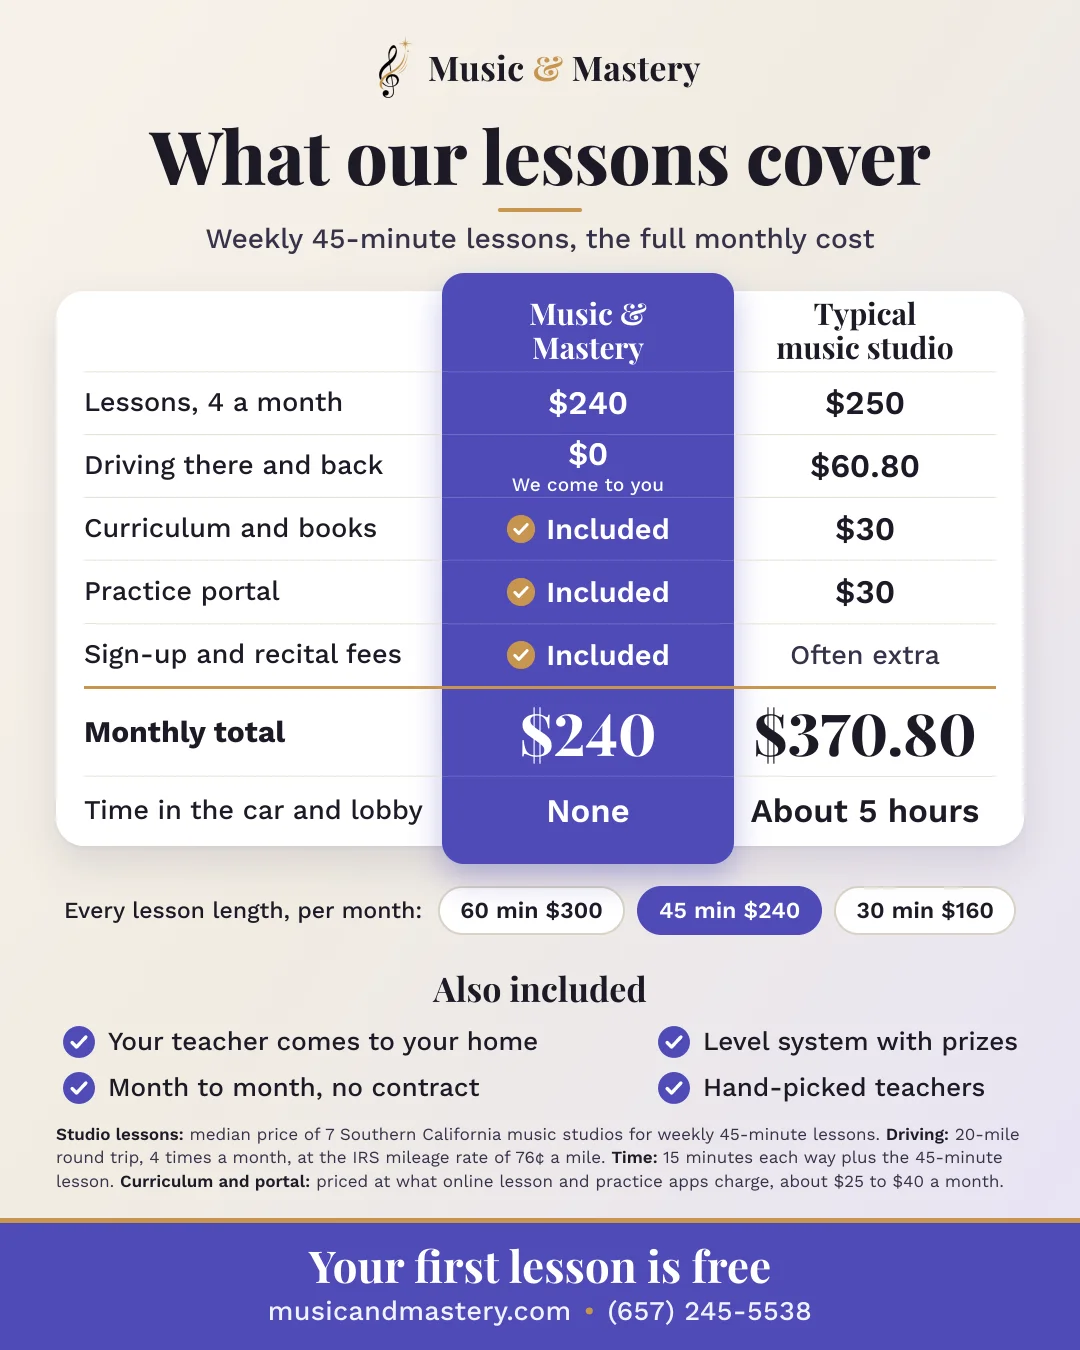
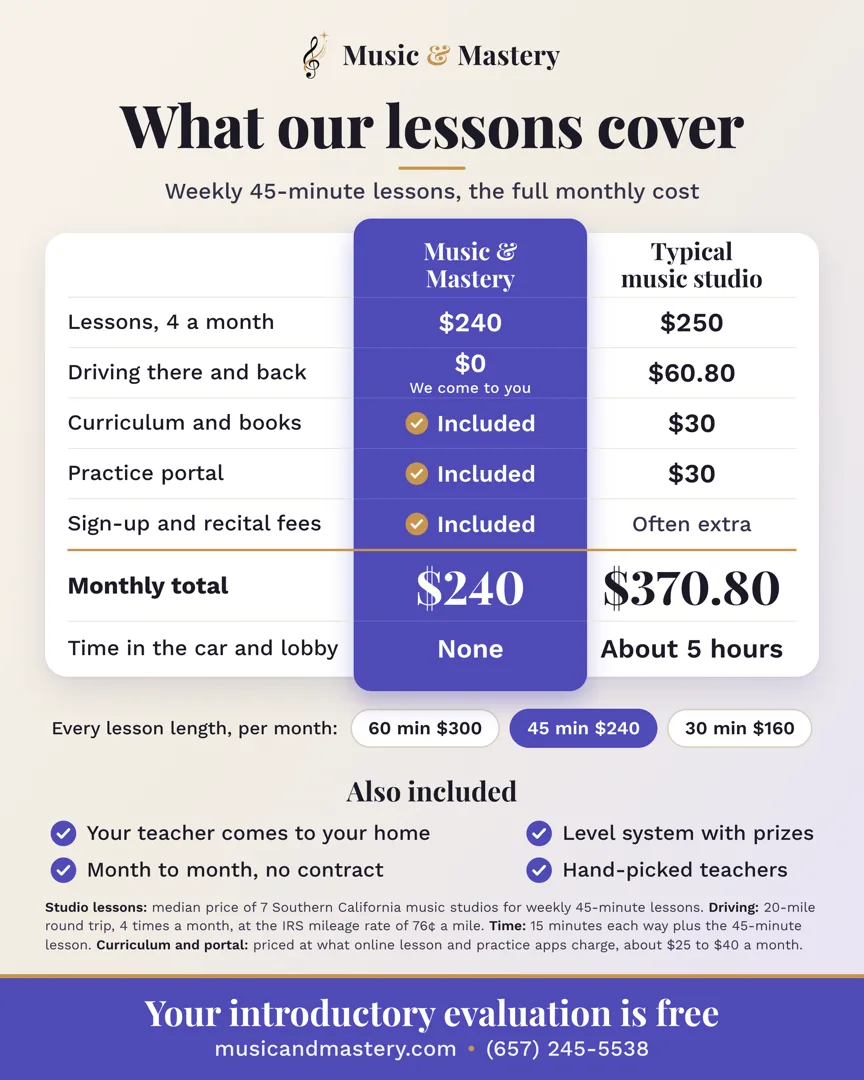
Pricing page: graphic bar says the introductory evaluation is free (page-only copy, 657 on both); drop the duplicate line (Jonny 2026-11-24)

diff --git a/pricing.html b/pricing.html
@@ -90,8 +90,7 @@
     .price-inner { max-width: 540px; margin: 0 auto; }
     .price-pic { display: block; }
     .price-pic img { display: block; width: 100%; height: auto; border-radius: 16px; box-shadow: 0 24px 60px rgba(114,110,221,0.24), 0 6px 18px rgba(0,0,0,0.10); }
-    .price-free { font-size: 20px; line-height: 1.5; color: #3a3a4a; margin: 28px 0 8px; font-weight: 700; }
-    .price-call { font-size: 18px; line-height: 1.5; color: #3a3a4a; margin: 0 0 18px; }
+    .price-call { font-size: 18px; line-height: 1.5; color: #3a3a4a; margin: 28px 0 18px; }
     .price-call a { color: var(--dark-purple); font-weight: 700; text-decoration: underline; text-underline-offset: 3px; }
     .price-actions { display: flex; gap: 12px; justify-content: center; }
     .price-actions .btn { padding: 10px 28px; font-size: 14px; }
@@ -99,7 +98,6 @@
       .nav-inner { padding: 0 20px; }
       .nav-logo img { height: 40px; }
       .price-section { padding: 20px 16px 40px; }
-      .price-free { font-size: 18px; margin-top: 22px; }
       .price-call { font-size: 16px; }
       footer { padding: 32px 20px; }
     }
@@ -123,9 +121,8 @@
     <h1 class="sr-only">What our lessons cover</h1>
     <picture class="price-pic">
       <source type="image/webp" srcset="brand_assets/pricing/price-comparison-1080.webp 1080w, brand_assets/pricing/price-comparison-2160.webp 2160w" sizes="(max-width: 600px) calc(100vw - 32px), 540px">
-      <img src="brand_assets/pricing/price-comparison-1080.jpg" width="1080" height="1350" alt="Music and Mastery costs $240 a month for weekly 45-minute lessons, with driving, curriculum and books, the practice portal, and sign-up and recital fees all included. A typical music studio comes to $370.80 a month: $250 for lessons, $60.80 driving, $30 curriculum and books, $30 practice portal, and sign-up and recital fees that are often extra. Studio families also spend about 5 hours in the car and lobby; with Music and Mastery it is none. 60-minute lessons are $300 a month, 45-minute $240 and 30-minute $160." decoding="async" fetchpriority="high">
+      <img src="brand_assets/pricing/price-comparison-1080.jpg" width="1080" height="1350" alt="Music and Mastery costs $240 a month for weekly 45-minute lessons, with driving, curriculum and books, the practice portal, and sign-up and recital fees all included. A typical music studio comes to $370.80 a month: $250 for lessons, $60.80 driving, $30 curriculum and books, $30 practice portal, and sign-up and recital fees that are often extra. Studio families also spend about 5 hours in the car and lobby; with Music and Mastery it is none. 60-minute lessons are $300 a month, 45-minute $240 and 30-minute $160. The introductory evaluation is free." decoding="async" fetchpriority="high">
     </picture>
-    <p class="price-free">Your introductory evaluation is free.</p>
     <p class="price-call">Call or text Jonny: <a href="tel:+16572455538">(657) 245-5538</a></p>
     <div class="price-actions">
       <a href="tel:+16572455538" class="btn btn-primary">Call</a>
